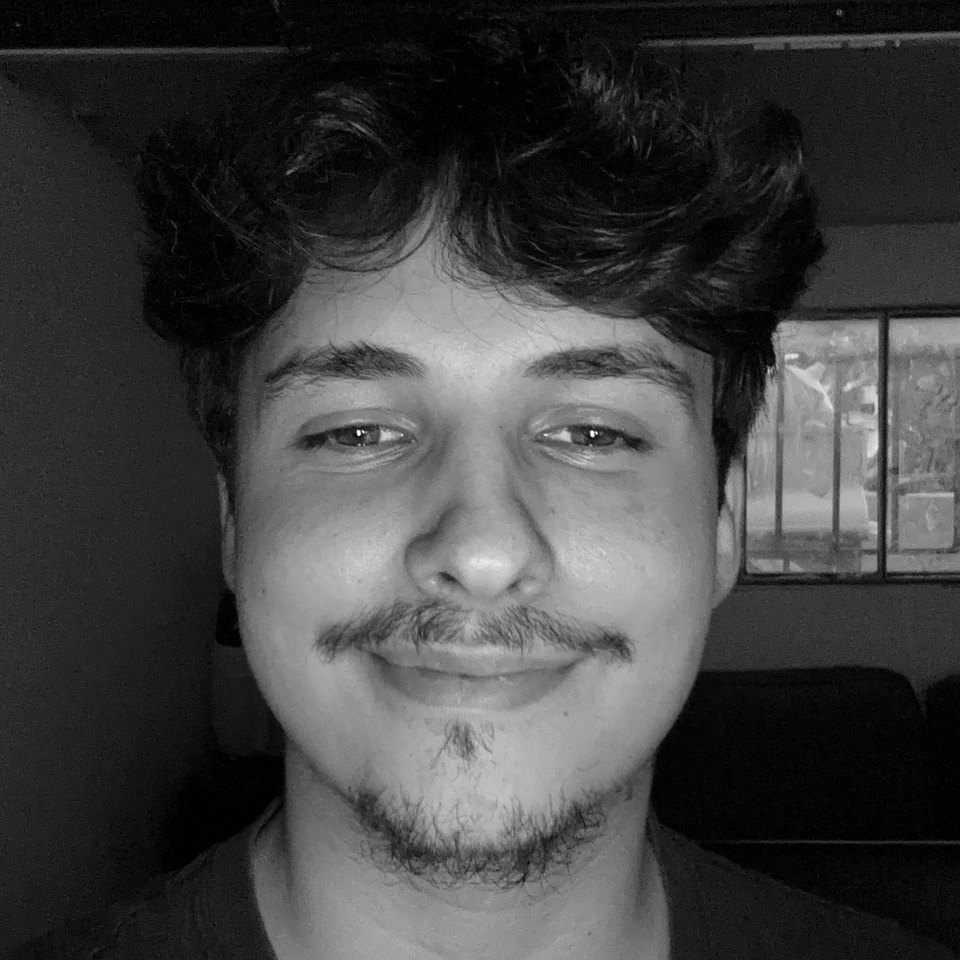
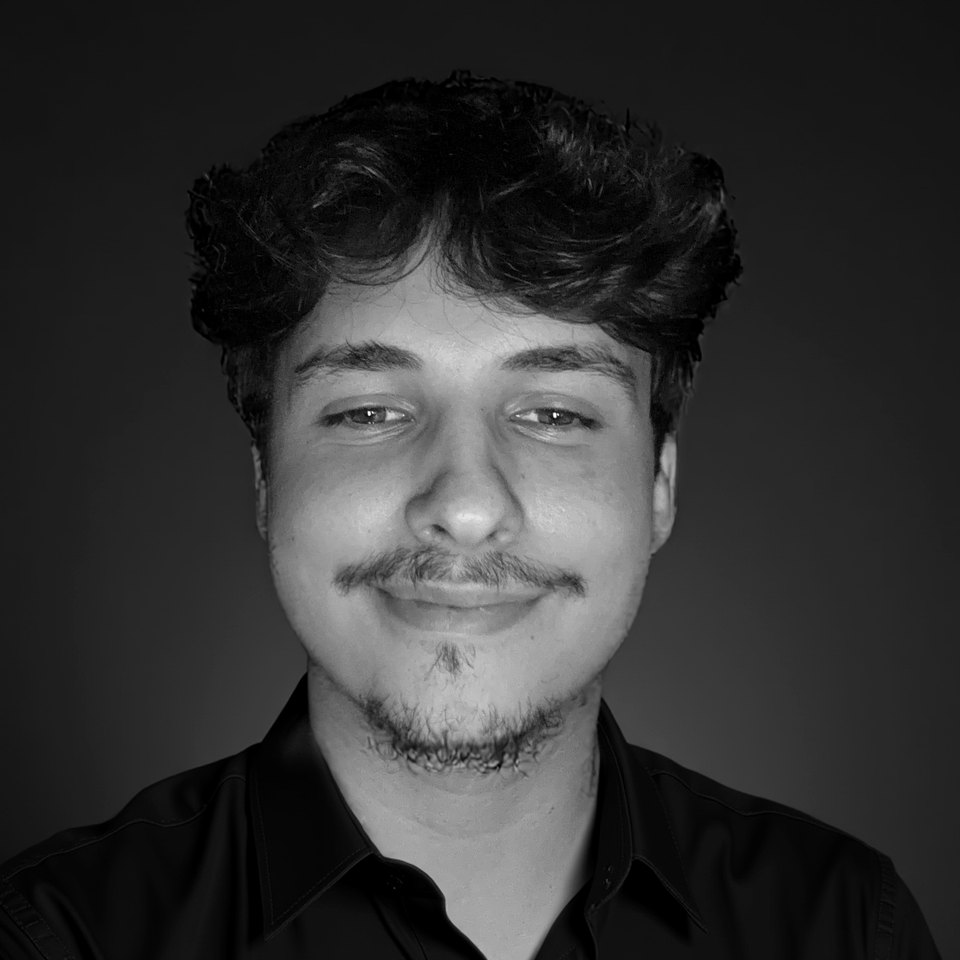
New profile photo: dark backdrop, navy shirt

diff --git a/index.html b/index.html
@@ -47,7 +47,7 @@
 
   <section class="block" id="about">
     <div class="wrap about">
-      <div class="portrait reveal"><img src="assets/photo-bw.jpg?v=2" alt="Pedro Mariano" width="480" height="480" loading="lazy"></div>
+      <div class="portrait reveal"><img src="assets/photo-bw.jpg?v=3" alt="Pedro Mariano" width="480" height="480" loading="lazy"></div>
       <div class="reveal">
         <p class="label">About</p>
         <h2>Business problems, solved with software that can be checked.</h2>

diff --git a/about/index.html b/about/index.html
@@ -26,7 +26,7 @@
 <main>
   <section class="page-hero">
     <div class="wrap about">
-      <div class="portrait"><img src="../assets/photo-bw.jpg?v=2" alt="Pedro Mariano" width="480" height="480"></div>
+      <div class="portrait"><img src="../assets/photo-bw.jpg?v=3" alt="Pedro Mariano" width="480" height="480"></div>
       <div>
         <div class="crumbs">About</div>
         <h1>Business first, then the software.</h1>
